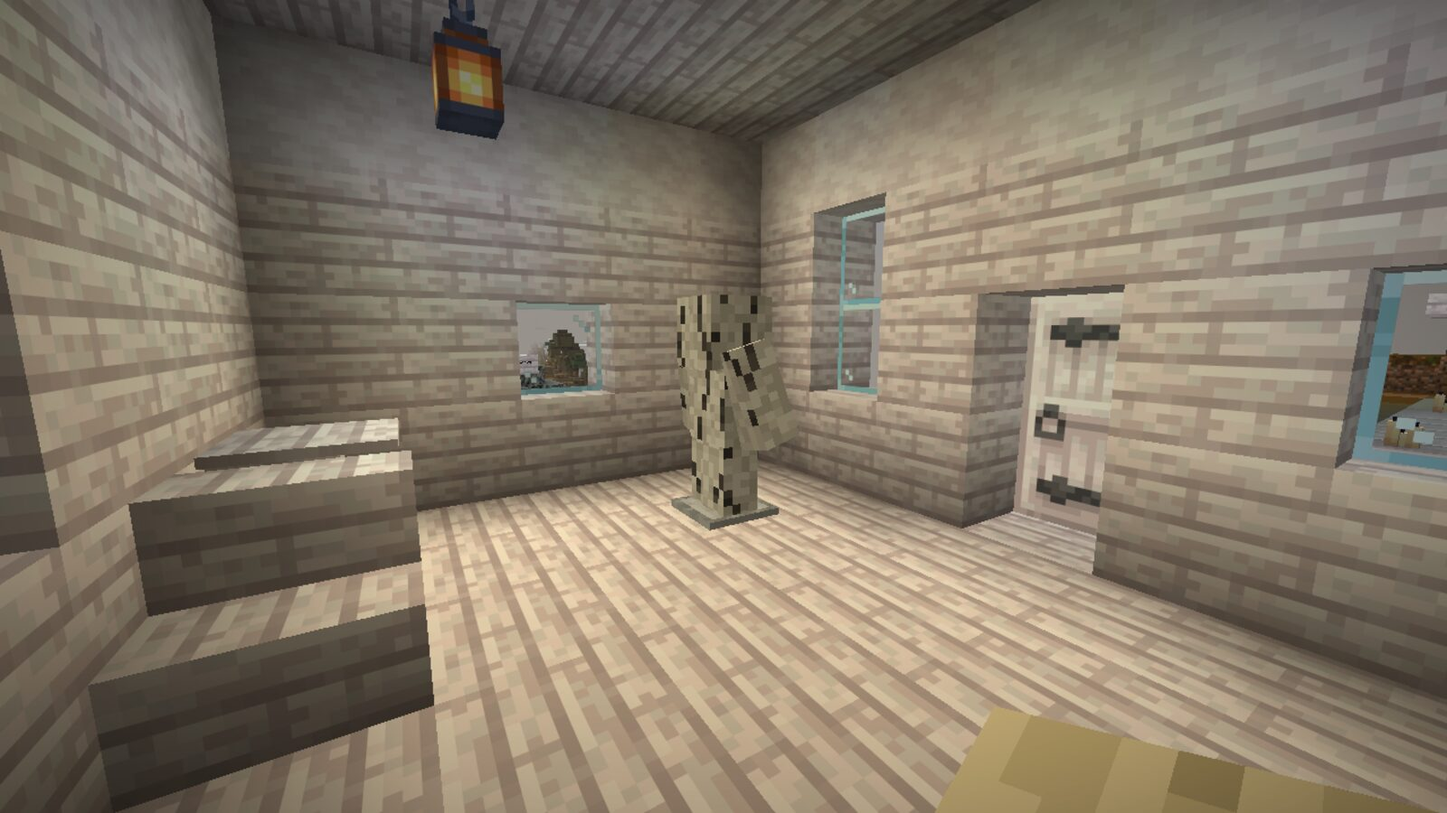
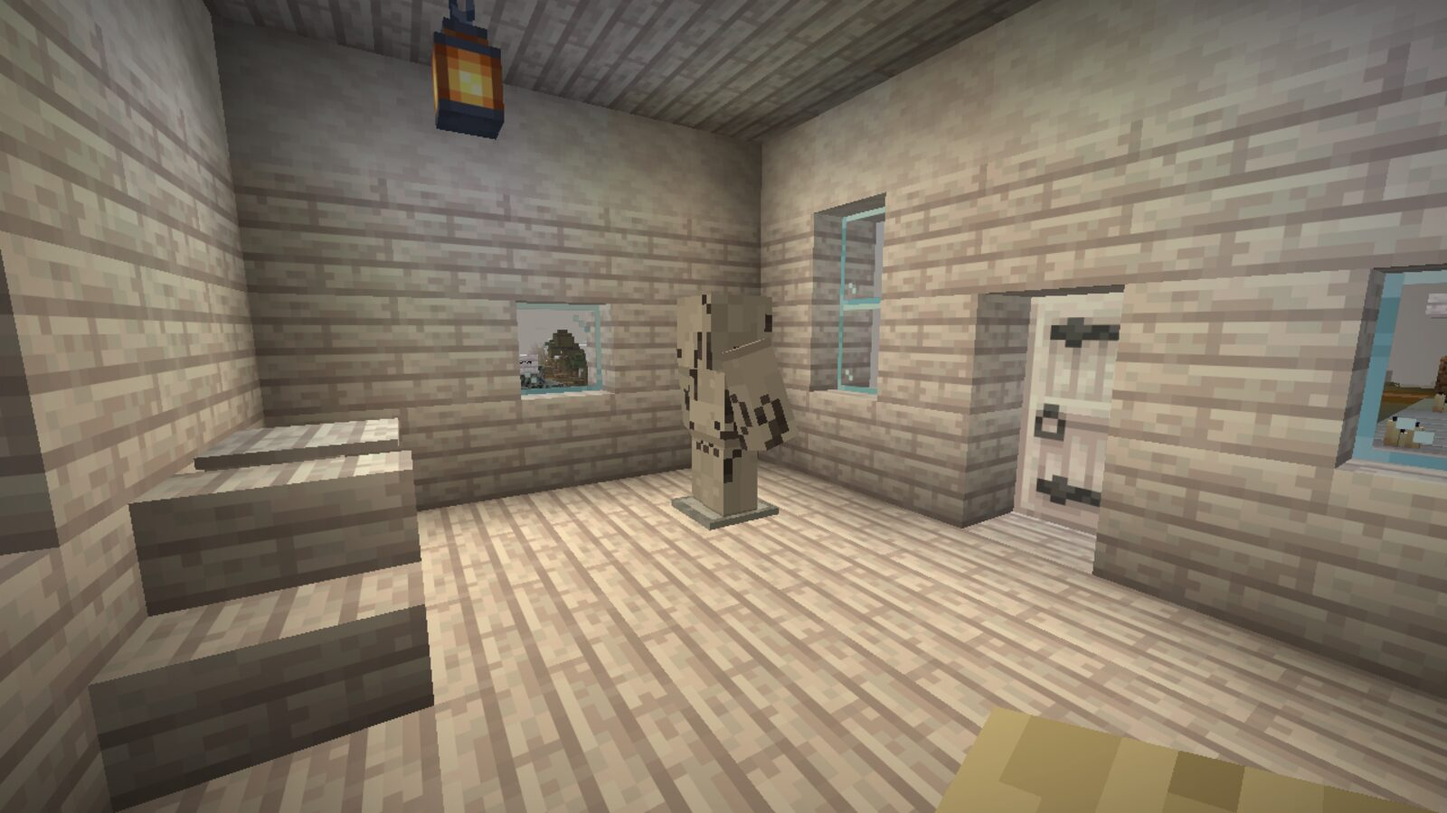
T-025 доработка: кадры (склон, дупло, значки брони, строка над хотбаром), прожилки брони без пятен, тест двери, раздел «Доработка» в отчёте
Зона огня ворожея пересчитана под новую коробку garden_glass (крона великого дуба).

Changed region(s): [[0.4688, 0.3422, 0.5625, 0.6222], [0.9375, 0.4356, 1.0, 0.4978]]

diff --git a/tools/build/garden_shots.py b/tools/build/garden_shots.py
@@ -2,12 +2,12 @@
 """T-025 frames of the Garden of Silence (server + client Cam as the camera, Cam2 as the model in the Creaking armour) -> docs/reports/T-025/*.jpg
 Usage: python3 tools/build/garden_shots.py [garden orangery hearts faces sensor slope house armour asleep hud book]   (default: all, in this order)
   garden    the garden from the path at the house, by day and by night; the main alley to the orangery
-  orangery  the orangery from outside (the great oak over the roof), from the path, inside (the pedestal) and up to the vault
+  orangery  the orangery from outside (the great oak over the roof), from the path, inside (the pedestal), up to the vault, the hollow
   hearts    a living heart by day and by night (awake, 4 blocks)
   faces     a carved face by day from 4 and 8 (outward, eyes shut), by night from 8 (turned, eyes open), a trunk side from the alley
   sensor    a sensor with its bones and sign
   house     the gardener's house from outside (the armour in the window) and the stand inside
-  armour    Cam2 in the full Creaking armour, front and back
+  armour    Cam2 in the full Creaking armour, front and back; the icons in the hotbar (enlarged)
   slope     the slope from the orangery up to the house (pale moss on the open sides)
   asleep    one point of the alley at night: the garden awake and asleep (eyeblossoms, faces; put back to awake afterwards)
   hud       the action bar: "hearts left" and "the garden fell asleep" (Cam in survival with the HUD)
@@ -30,15 +30,19 @@ def run(shots, time_="noon", tag=""):
     spec = os.path.join(TMP, f"shots{tag}.json"); json.dump({"time": time_, "weather": "clear", "shots": shots}, open(spec, "w"))
     subprocess.run([sys.executable, os.path.join(ROOT, "tools/screenshot.py"), spec, "--out", TMP, "--double"], check=True)
     for s in shots: jpg(s["name"])
-def jpg(name):
-    subprocess.run(["convert", os.path.join(TMP, name + ".png"), "-resize", "1600x", "-quality", "82", os.path.join(OUT, name + ".jpg")], check=True)
-def direct(name, hud=True, keep=False):
-    """a frame of what Cam sees now (survival: the hotbar, an open book), through the agent directly"""
-    tc.act("Cam", "%s %d%s" % (name, 1 if hud else 0, " keep" if keep else ""))
+def jpg(name, crop=None):
+    pre = []
+    if crop:      # (x, y, w, h) as fractions of the frame (the client window size may differ)
+        W, H = (int(v) for v in subprocess.run(["identify", "-format", "%w %h", os.path.join(TMP, name + ".png")], capture_output=True, text=True).stdout.split())
+        pre = ["-crop", "%dx%d+%d+%d" % (crop[2] * W, crop[3] * H, crop[0] * W, crop[1] * H), "+repage", "-filter", "point"]
+    subprocess.run(["convert", os.path.join(TMP, name + ".png")] + pre + ["-resize", "1600x", "-quality", "82", os.path.join(OUT, name + ".jpg")], check=True)
+def direct(name, hud=True, keep=False, clean=True, crop=None):
+    """a frame of what Cam sees now (survival: the hotbar, an open book), through the agent directly; clean = without the chat lines"""
+    tc.act("Cam", "%s %d%s%s" % (name, 1 if hud else 0, " keep" if keep else "", " clean" if clean else ""))
     for _ in range(100):
         if os.path.exists(os.path.join(ROOT, "server/client/screenshots", name + ".png")): break
         time.sleep(0.2)
-    time.sleep(0.5); import shutil; shutil.copy(os.path.join(ROOT, "server/client/screenshots", name + ".png"), os.path.join(TMP, name + ".png")); jpg(name)
+    time.sleep(0.5); import shutil; shutil.copy(os.path.join(ROOT, "server/client/screenshots", name + ".png"), os.path.join(TMP, name + ".png")); jpg(name, crop)
 def prep():
     R("gamerule advance_time false"); R("gamerule locator_bar false"); R("difficulty peaceful"); R("gamemode spectator Cam2"); R("tp Cam2 330 200 -350")
 def heart_eye(h, d=5.0, up=0.6):
@@ -79,6 +83,8 @@ def orangery():
     mid = (M["orangery"][0] + 8.5, FY + 1.62, OCZ + 4.0)
     run([shot_eye("g_orangery_up", mid, (OCX - 2, FY + 18, OCZ - 1)),
          shot_eye("g_orangery_vault", (M["orangery"][0] + 2.5, FY + 4.0, OCZ), (M["orangery"][2], FY + 15, OCZ))], "noon", "_ou")
+    tx = M["trunk"][0]       # the hollow: 2x2 in the west face of the trunk, 4..5 over the floor
+    run([shot_eye("g_tree_hollow", (tx - 4.0, FY + 5.2, -318.5), (tx, FY + 4.9, -321.0), 6)], "noon", "_th")
     P = M["path"]; i = min(range(len(P)), key=lambda k: abs(math.hypot(P[k][0] - OCX, P[k][1] - OCZ) - 45))
     run([shot_eye("g_tree_path", (P[i][0] + 0.5, P[i][2] + 1.62, P[i][1] + 0.5), (OCX, FY + 26, OCZ))], "noon", "_tp")
     run([shot_eye("g_orangery_in_night", (M["orangery"][0] + 4.5, FY + 3.2, OCZ + 3), (M["pedestal"][0] + 0.5, FY + 1, M["pedestal"][2] + 0.5))], "midnight", "_orn")
@@ -110,7 +116,9 @@ def sensor():
     run([shot_eye("g_sensor", e, (t[0] + (sx - s["x"]) * 0.4, t[1] + 0.6, t[2] + (sz - s["z"]) * 0.4), 6)], "noon", "_s")
 def slope():
     prep(); R(f"tp Cam {OCX} 150 {OCZ}"); time.sleep(12)
-    e = (M["orangery"][0] - 6.5, FY + 4.5, OCZ - 8); t = (M["house"][0] + 4, M["house_floor"] - 6, M["house"][3])
+    P = M["path"]; i = min(range(len(P)), key=lambda k: abs(math.hypot(P[k][0] - OCX, P[k][1] - OCZ) - 28))    # the path at the orangery's west side
+    j = min(range(len(P)), key=lambda k: abs(math.hypot(P[k][0] - OCX, P[k][1] - OCZ) - 90))                  # up the slope, at the house
+    e = (P[i][0] + 0.5, P[i][2] + 1.62 + 2.0, P[i][1] + 0.5); t = (P[j][0] + 0.5, P[j][2] + 1.0, P[j][1] + 0.5)
     run([shot_eye("g_slope", e, t, 8)], "noon", "_sl")
 def house():
     prep(); R("tp Cam 242 140 -262"); time.sleep(12)
@@ -128,11 +136,11 @@ def armour():
     R(f"tp Cam2 {x} {y} {z}"); R("rotate Cam2 180 0"); time.sleep(2)
     run([shot_eye("g_armour_back", (x, y + 1.4, z + 3.2), (x, y + 1.0, z), 4)], "noon", "_ab")
     # the icons in the hotbar of Cam (survival) looking at Cam2
-    R("gamemode survival Cam"); R("clear Cam"); R(f"tp Cam {x} {y} {z + 3.2} 180 10")
+    R("recipe give Cam *"); R("gamemode survival Cam"); R("clear Cam"); R(f"tp Cam {x} {y} {z + 3.2} 180 10")
     for k, pc in enumerate(("helmet", "chestplate", "leggings", "boots")): R(f"loot replace entity Cam hotbar.{k} loot last_ember:item/creaking_{pc}")
     R("item replace entity Cam hotbar.4 with minecraft:pale_oak_log"); R("item replace entity Cam hotbar.5 with minecraft:stripped_pale_oak_log")
-    R("item replace entity Cam hotbar.6 with minecraft:leather_chestplate"); time.sleep(3)
-    direct("g_armour_icons"); R("clear Cam"); R("gamemode spectator Cam")
+    R("item replace entity Cam hotbar.6 with minecraft:leather_chestplate"); time.sleep(8)    # the recipe toast goes away
+    direct("g_armour_icons", crop=(0.35, 0.925, 0.30, 0.075)); R("clear Cam"); R("gamemode spectator Cam")      # the hotbar only, enlarged
     R("clear Cam2"); R("gamemode spectator Cam2")
 def alley_eye():
     P = M["path"]; i = min(range(len(P)), key=lambda k: abs(math.hypot(P[k][0] - OCX, P[k][1] - OCZ) - 40))
@@ -158,11 +166,11 @@ def hud():
     prep(); R("function last_ember:garden/reset"); R("time set noon")
     h = M["hearts"][0]; e = heart_eye(h, 4.0, 0.0)
     R("gamemode survival Cam"); R("effect give Cam minecraft:resistance infinite 4 true"); R(f"tp Cam {e[0]} {e[1] - 1.62 + 20} {e[2]}"); time.sleep(10)
-    R(f"spreadplayers {e[0]} {e[2]} 0 1 false Cam"); R(f"execute as Cam at @s anchored eyes run tp @s ~ ~ ~ facing {h['x'] + 0.5} {h['y'] + 0.5} {h['z'] + 0.5}"); time.sleep(3)
+    R(f"tp Cam {e[0]} {h['y']} {e[2]}"); R(f"execute as Cam at @s anchored eyes run tp @s ~ ~ ~ facing {h['x'] + 0.5} {h['y'] + 0.5} {h['z'] + 0.5}"); time.sleep(3)
     R(f"setblock {h['x']} {h['y']} {h['z']} minecraft:air destroy"); time.sleep(1.3)
-    direct("g_hud_hearts_left")
+    direct("g_hud_hearts_left"); time.sleep(12)        # the chat line "Saved screenshot" of this frame fades (10 s) before the next one
     for q in M["hearts"][1:]: R(f"forceload add {q['x']} {q['z']}"); R(f"setblock {q['x']} {q['y']} {q['z']} minecraft:air")
-    time.sleep(1.6); direct("g_hud_asleep")
+    time.sleep(2.0); direct("g_hud_asleep")
     for q in M["hearts"][1:]: R(f"forceload remove {q['x']} {q['z']}")
     R("function last_ember:garden/reset"); R("gamemode spectator Cam")
 def book():

diff --git a/tools/make_creak_textures.py b/tools/make_creak_textures.py
@@ -24,20 +24,28 @@ def base(x, y, s=0):
     n = hsh(x, y, s + 1); g = hsh(x // 2, y // 3, s + 2)        # soft grain: patches 2x3 of one shade, a little speckle
     return BASE[0 if g < 0.5 else 1 if g < 0.8 else 2] if n > 0.15 else BASE[int(n * 20) % 3]
 def veins(px, x1, y1, x2, y2, s):
-    """dark vertical veins 3..8 long that wander by one pixel and fork; about one start per 26 pixels of the region, no spots"""
-    w, h = x2 - x1, y2 - y1; n = max(1, (w * h) // 26)
+    """dark vertical veins 3..8 long, one pixel wide, that wander by one pixel and fork away; about one start per 40 pixels of the region.
+    No two veins touch side by side (that read as dark spots on the worn armour): a vein stops before it would sit next to another one."""
+    w, h = x2 - x1, y2 - y1; n = max(1, (w * h) // 40); occ = set()
+    def free(x, y, own):
+        return all((x + dx, y + dy) not in occ or (x + dx, y + dy) in own for dx in (-1, 0, 1) for dy in (-1, 0, 1))
     for k in range(n):
         x = x1 + int(hsh(k, 1, s) * w); y = y1 + int(hsh(k, 2, s) * h); L = 3 + int(hsh(k, 3, s) * 6)
-        stack = [(x, y, L, 0)]
+        stack = [(x, y, L, 0, 0)]
         while stack:
-            x, y, L, depth = stack.pop()
+            x, y, L, depth, side = stack.pop(); own = set()
             for i in range(L):
-                if not (x1 <= x < x2 and y1 <= y < y2): break
-                px[y][x] = VEIN[int(hsh(x, y, s + 9) * 3)] + (255,)
-                if depth == 0 and i == L // 2 and hsh(k, 4, s) < 0.6:
-                    stack.append((x + (1 if hsh(k, 5, s) < 0.5 else -1), y + 1, 2 + int(hsh(k, 6, s) * 3), 1))
+                if not (x1 <= x < x2 and y1 <= y < y2) or not free(x, y, own | {(x, y - 1), (x - 1, y - 1), (x + 1, y - 1)}): break
+                own.add((x, y)); px[y][x] = VEIN[int(hsh(x, y, s + 9) * 3)] + (255,)
+                if depth == 0 and i == L // 2 and hsh(k, 4, s) < 0.5:
+                    sd = 1 if hsh(k, 5, s) < 0.5 else -1          # the fork leaves sideways: 2 pixels out, then down
+                    stack.append((x + 2 * sd, y + 2, 2 + int(hsh(k, 6, s) * 3), 1, sd))
                 y += 1
-                if hsh(x, y, s + 11) < 0.3: x += 1 if hsh(x, y, s + 12) < 0.5 else -1
+                if depth == 0 and hsh(x, y, s + 11) < 0.3: x += 1 if hsh(x, y, s + 12) < 0.5 else -1
+            if len(own) < (3 if depth == 0 else 2):             # cut short by a neighbour: no stray dots
+                for (qx, qy) in own: px[qy][qx] = base(qx, qy) + (255,)
+                continue
+            occ |= own
 # ---- worn layers (64x32 humanoid layout): head 0..32 x 0..16, body 16..40 x 16..32, arms 40..56 x 16..32, legs 0..16 x 16..32
 def layer(regions, rims, eyes=False):
     px = [[(0, 0, 0, 0)] * 64 for _ in range(32)]

diff --git a/tools/test_garden.py b/tools/test_garden.py
@@ -340,7 +340,13 @@ def t_door():
             f"closest {zmin:.2f} from the door block, end z {p and p[2]}")
         print(f"        (the door seen open by the server in {seen_open} polls of ~{int(3.4 / 0.12)})")
         chk(f"run {run}: ... the door is shut afterwards", blk(dx, dy, dz, "minecraft:pale_oak_door[open=false]"))
-    unstage()
+    # control: the same clicks reach the door (asleep, one click opens it)
+    R("function last_ember:garden/sleep_now"); time.sleep(1.2)
+    R(f"tp Cam {dx + 0.5} {dy} {dz + 2.0} 180 0"); look_at("Cam", dx + 0.5, dy + 1.0, dz + 0.5); time.sleep(0.6)
+    tc.act("Cam", "!use"); time.sleep(1.5)
+    chk("control: asleep, one right click from the same place opens the door", blk(dx, dy, dz, "minecraft:pale_oak_door[open=true]"))
+    R(f"setblock {dx} {dy} {dz} minecraft:pale_oak_door[facing=north,half=lower,hinge=left,open=false]"); R(f"setblock {dx} {dy+1} {dz} minecraft:pale_oak_door[facing=north,half=upper,hinge=left,open=false]")
+    R("function last_ember:garden/reset"); unstage()
 
 def attr(p, a): return tc.num(R(f"attribute {p} minecraft:{a} get"), r"is (-?[\d.]+)")
 def t_armor():
@@ -391,8 +397,9 @@ def t_armor():
     R("clear Cam"); R("clear Cam2"); R("function last_ember:garden/reset"); unstage()
 
 def arena():
-    R("fill 1700 199 1700 1740 199 1740 minecraft:stone"); R("fill 1700 200 1700 1740 206 1740 minecraft:air")
-    R("forceload add 1700 1700 1740 1740")
+    R("forceload add 1700 1700 1740 1740")               # loaded first: on a fresh world the fill would hit unloaded chunks
+    wait(lambda: passed("execute if loaded 1700 200 1700") and passed("execute if loaded 1740 200 1740"), 40); time.sleep(1)
+    R("fill 1700 199 1700 1740 199 1740 minecraft:stone"); R("fill 1700 200 1700 1740 210 1740 minecraft:air")
 def wear(p):
     R(f"clear {p}")
     for sl, pc in (("head", "helmet"), ("chest", "chestplate"), ("legs", "leggings"), ("feet", "boots")):

diff --git a/tools/shotagent/ShotAgent.java b/tools/shotagent/ShotAgent.java
@@ -72,14 +72,16 @@ public class ShotAgent {
                             continue;
                         }
                         boolean hud = p.length > 1 && p[1].equals("1");
-                        boolean keep = p.length > 2 && p[2].equals("keep");     // "<name> 1 keep": the open screen (a book, the inventory) stays in the frame
+                        java.util.Set<String> fl = new java.util.HashSet<>(java.util.Arrays.asList(p).subList(Math.min(2, p.length), p.length));
+                        boolean keep = fl.contains("keep");     // "<name> 1 keep": the open screen (a book, the inventory) stays in the frame
+                        boolean clean = fl.contains("clean");   // "<name> 1 clean": the chat is cleared before the frame (a "Saved screenshot" line of the frame before may still come later: wait 10 s)
                         Object lock = new Object();
                         boolean[] ok = {false};
                         Path shots = Paths.get(mc.gameDirectory.getPath(), "screenshots");
                         Files.createDirectories(shots);
                         mc.execute(() -> {
                             if (mc.gui.screen() != null && !keep) mc.gui.setScreen(null);  // close pause menu etc.
-                            if (!hud) { mc.options.chatVisibility().set(ChatVisiblity.HIDDEN); mc.gui.hud.getChat().clearMessages(false); }  // no chat / "Saved screenshot"
+                            if (!hud || clean) { mc.options.chatVisibility().set(ChatVisiblity.HIDDEN); mc.gui.hud.getChat().clearMessages(false); }  // no chat / "Saved screenshot"
                             boolean wasHidden = mc.gui.hud.isHidden();
                             if (wasHidden == hud) mc.gui.hud.toggle();
                             // capture on a later frame so the HUD state has been rendered

diff --git a/docs/reports/T-025-report.md b/docs/reports/T-025-report.md
@@ -155,3 +155,70 @@
 1. Текст «Записок садовника» — ждём от Штаба, сейчас одна страница «…».
 2. Текстуры брони — заглушки скрипта. Нужен ли арт от Архитектора?
 3. Заметил вне задачи: таблички в Приюте и на доске заказов не вощёные. Там зоны с приключением, редактировать их нельзя, но если зону когда-нибудь снимут — стоит вощить. Сделать в отдельной задаче?
+
+## Доработка (по приёмке `docs/tasks/T-025-review.md`)
+
+ДЛЯ ШТАБА. PR #83 влит до того, как правки были готовы, поэтому доработка идёт отдельным PR в `main`. Всё проверено на мире, собранном с нуля этой веткой (`rebuild.sh --no-client`), клиенты Cam и Cam2.
+
+### Что сделано по пунктам
+1. **Свод оранжереи.** Рёбра — `stripped_pale_oak_log[axis=z]`, на крутых участках (ребро добирается до соседа больше чем на 1 блок) — `axis=y`. Щелей по диагонали нет: каждая клетка, которую добирает `ys`, тоже ребро. Кадры `g_orangery_in`, `g_orangery_up` (с середины зала вверх), `g_orangery_vault` (вдоль зала): рёбра читаются сплошными ступенчатыми дугами.
+2. **Великий дуб.** Ствол 4×4 высотой 34 от пола (до y 125). Главная крона над крышей шириной 31 (`rx` 15,5) с 9 верхними ветвями и кольцом из 7 пятен, висячий мох; верх кроны y 133, на 8+ выше леса вокруг (`g_orangery_out`, `g_tree_path`). Три толстые ветви `BIG_BRANCHES` (2×2 первые 7 шагов у ствола, дальше 1×1) идут под сводом и пробивают его в трёх местах, стекло и решётки вокруг ветви убраны. Дупло 2×2 глубиной 1 в западной грани на высоте 4–5 от пола (`g_tree_hollow`: тёмная ниша с освещёнными краями; под кроной ствол сам по себе тёмный). Зона `garden_glass` = оранжерея ∪ рамка кроны до её верха +2: `318 87 −340 … 357 133 −304`.
+3. **Лица.** Все клетки ствола стоймя (`axis=y`), на боках ствола торцов с кольцами больше нет (`g_face_side`). Днём: брови — перевёрнутые ступени `pale_oak_stairs` перед снятым дубом, глаза закрыты веком (верхняя плита `pale_oak_slab` перед тёмной клеткой), нос — светлая перемычка и кнопка, рот — тёмная клетка за открытым люком. Ночью глаза открыты: веко снимается, остаются тёмные провалы. Кадры `g_face_day4`, `g_face_day8` (днём с 4 и 8), `g_face_night` (ночью с 8), `g_face_side` (с аллеи сбоку).
+4. **Склоны.** Открытые бока уступов (соседняя клетка ниже) — `pale_moss_block` сверху и на глубину перепада, камень на боках больше не торчит (`g_slope`: от оранжереи вверх к дому).
+5. **Текстура брони** (`tools/make_creak_textures.py`). Основа — тона снятого бледного дуба в 3 оттенка, кромки пластин на 1 тон темнее (плечи, пояс, низ поножей и ботинок). Прожилки — тёмные тона коры бледного дуба, вертикальные, 3–8 px, с отходящими ветками, одна на ~40 px. Две прожилки не касаются друг друга, слишком короткие убираются: пятен нет (первый вариант давал на спине тёмные пятна 2×2, переделано). На шлеме прорези 3×1 с тускло-оранжевым пикселем. Значки в тех же тонах, с тёмной обводкой. Кадры `g_armour_front`, `g_armour_back`, `g_armour_icons` (хотбар, увеличен; рядом для сравнения бревно, снятое бревно и кожаный нагрудник).
+6. **Повторяемость сборки с нуля** — ниже отдельно.
+7. **Кадры** — ниже списком.
+- **Дверь:** в `test_garden.py door` игрок бежит в дверь (вперёд зажато) и жмёт ПКМ каждые 2 тика 3 с (новое действие агента `!use_rapid 3000 100`). Два прогона: внутрь не попал (z не дальше порога), дверь закрыта. Контроль: после засыпания одно ПКМ открывает дверь.
+- **Записки садовника:** 6 страниц из приёмки без сокращений, автор «садовник». Каждая страница помещается в окно книги (`g_book_p1` … `g_book_p6`, кадр с открытой книгой на кафедре).
+
+### Повторяемость сборки с нуля
+- **Причина — датапак, а не ваниль.** `rebuild.sh` грузит чанки (`pregen`) на запущенном сервере с датапаком из git. Датапак в это время строил костры (и ворота, торговцев…) по координатам **прошлой** сборки, а скан «естественной» земли `nat.bin` видел эти площадки. Следующая сборка ставила площадки по новому скану, и так по кругу: костёр 8 у моста прыгал между y 163 и 174 через сборку, от него тянулись тропы, подходы `r1_plots.txt` и точки сада (глазоцвет у реки).
+- **Исправлено:**
+  - `rebuild.sh` генерирует чанки при `tick freeze`: функции, текущая вода, замерзание и осыпи стоят, а чанки грузятся. `tick unfreeze` — при последнем старте.
+  - `terrain.sh scan` считает текущую воду (level ≠ 0) воздухом, а лёд — водой: от порядка таяния и растекания скан больше не зависит.
+  - Тропы `r1.py` больше не обходят ванильные стволы: «цена ствола» в A* убрана, стволы на стыках чанков — основная ванильная разница.
+  - Площадка костра поднимается над водой, только если вода занимает ≥ 10% её коробки: одиночный родник у края больше не задирает площадку.
+- **Проверка:** две сборки с нуля подряд (rb5 → rb6). Все тексты и вывод датапака совпали, `git status` чистый, кроме `docs/reports/T-022/r1_plan.png` (15 пикселей).
+- **Что ещё отличается и почему это безопасно.** Ванилла сама по себе даёт между сборками: деревья на стыках чанков (зависят от порядка генерации), ~63 столбца земли (землю под стволом кладёт дерево) и 20–27 столбцов воды. Генераторы мест от них больше не зависят. Видно это только в картинке плана R1, а в файлах датапака, точках, тропах и подходах ничего не меняется.
+- **Правило в CLAUDE.md:** после сборки боевого мира закоммитить вывод генераторов этой сборки (`git status` после `rebuild.sh`). Датапак из git, не совпадающий с миром, не ставить.
+- **Что поменялось в выводе по сравнению с PR #83** (из-за правок выше, а не случайно):
+  - сердце 5 у реки теперь (349, 85, −347);
+  - тропы R1 местами сдвинулись на 1–2 блока (убрана цена ствола);
+  - строки `approach` в `r1_plots.txt`, планы.
+  - Глазоцветов 192, как в отчёте; у Штаба было 191 — это и был плавающий столбец у реки.
+
+### Как проверено (доработка)
+- **Тесты** `python3 tools/test_garden.py` на мире rb6, все разделы с новым `door`. Первый прогон: 118 прошли, 6 упали. Причина в самом тесте: площадка-арена заливалась `fill` до загрузки чанков. Арена теперь сначала `forceload` и ждёт загрузки. Повтор упавших разделов (armor, still, perf): 33 прошли, 0 упали. Silence: 16 из 16. Restart: 5 из 5. Door: 2 прогона внутрь не попали, контроль открыл дверь.
+- **Нагрузка «Замирания»:** 0,128 мс на запуск → 0,077 мс на тик на трёх носителей (как было).
+- **Бот** на мире rb6, все маршруты без застреваний и падений:
+
+  | Маршрут | Прыжков |
+  | --- | --- |
+  | `g_in` | 0 |
+  | `g_out` | 0 |
+  | `g_heart_1` | 1 |
+  | `g_heart_2` | 0 |
+  | `g_heart_3` | 18 |
+  | `g_heart_4` | 7 |
+  | `g_heart_5` | 1 |
+  | `g_heart_6` | 0 |
+- **Генераторы:** `tools/check_gen.sh` чистый.
+
+### Кадры (`docs/reports/T-025/`, `python3 tools/build/garden_shots.py`)
+- **Ночь на аллее, одна точка:** `g_alley_night_awake` (глазоцветы открыты, лица к оранжерее) и `g_alley_night_asleep` (закрыты, лица наружу). Старый `g_asleep_night` (совпадал с тропой у дома) удалён.
+- **Живое сердце:** `g_heart_day`, `g_heart_night` — живой лик с 4 блоков, ночью сердце проснулось.
+- **Строка над хотбаром:** `g_hud_hearts_left` («Сердец осталось: 5»), `g_hud_asleep` («Сад уснул.»).
+- **Свод:** `g_orangery_in`, `g_orangery_up`, `g_orangery_vault`.
+- **Дуб:** `g_orangery_out` (снаружи), `g_tree_path` (с тропы), `g_orangery_up` (изнутри вверх), `g_tree_hollow` (дупло).
+- **Лица:** `g_face_day4`, `g_face_day8`, `g_face_night`, `g_face_side`. Старый `g_face_day` удалён.
+- **Сенсор и склон:** `g_sensor`, `g_slope`.
+- **Броня:** `g_armour_front`, `g_armour_back`, `g_armour_icons`.
+- **Записки:** `g_book_p1` … `g_book_p6`.
+- Остальные кадры пересняты на новом мире.
+
+### Инструменты (не карта)
+- ShotAgent:
+  - `!use_rapid <мс> [шаг_мс]` — ПКМ раз в шаг;
+  - флаги строки кадра `keep` (кадр с открытым окном, книга) и `clean` (чат очищается перед кадром с HUD; строка «Saved screenshot» прошлого кадра приходит позже, поэтому между кадрами с HUD пауза 12 с — строки чата гаснут за 10 с).
+- `garden_shots.py`: новые разделы `slope`, `hud`, `book`, кадры прямо с клиента (`direct`, с обрезкой для хотбара).
+- `Terrain.java`: в новой секции биомы копируются из ближайшей нижней. `BiomePaint.java` пропускает секции без палитры биомов (только свет) — на них падала первая пересборка.

diff --git a/CLAUDE.md b/CLAUDE.md
@@ -287,7 +287,7 @@ Dark fantasy приключенческая карта для **Minecraft Java 2
 - Тишина: активный сенсор (`sculk_sensor_phase=active`) → `gen/sn<k>`: 2 скрипуна (`garden/wake` → `wake_try`, 16 попыток на каждого) 7..13 за спиной ближайшего игрока (> 120°) и 10..16 от сенсора, на твёрдой земле; `le.garden_cr`, `Invulnerable`, `PersistenceRequired`; рассыпаются через 60 с (`le.gdt`), когда все ушли дальше 32, при засыпании; не больше 6 в саду. **Ванилла: наступивший на сенсор будит его и крадучись** (`SculkSensorBlock.stepOn`) — присевший на клетке над сенсором сад не будит (пропуск 2 с), шаги крадущегося рядом ванилла и так не слышит.
 - Дверь дома заперта, пока сад не спит: достижение `garden/door` (`default_block_use`, **26.3: `location` — один предикат `{type:location_check,…}`, не список**) + сверка раз в секунду закрывают её снова. Ключ «Слеза Скрипуна» — `item_display`+`interaction` `le.gdkey` на постаменте, `garden/key_take` (T-013, `got:1b`). Броня — стойка `le.gdstand` (**`DisabledSlots` ставить после брони: в отключённый слот и команда не кладёт**), `interaction` `le.gdarm`, после засыпания комплект раз на игрока (`le.creak_got`).
 - Скрипучая броня (`gen_loot.py` → `loot_table/item/creaking_<деталь>`, `creaking_armor`; текстуры-заглушки `python3 tools/make_creak_textures.py`): кожаные детали с `equippable` `last_ember:creaking`, броня 2/6/5/2, прочность 165/240/225/195, отбрасывание +0,025, чары 12, ремонт `#minecraft:pale_oak_logs`, `custom_data {le_keep,le_creak}`. Замирание (`creak/wear`, весь комплект): ближайший монстр в конусе 20° ≤ 8 (эльф 25°, 12), луч по `#last_ember:gaze_pass` — замедление III + слабость I на 1 с; не боссы/великаны/NPC/скрипуны.
-- Админ: `garden/status`, `garden/reset` (сердца, ключ, откаты, броня снова), `garden/sleep_now`, `garden/gen/blooms_open|blooms_count`. Тесты: `python3 tools/test_garden.py [build hearts faces door silence key armor still zones perf restart]` (Cam, Cam2; мир после `rebuild.sh`), бот `python3 tools/build/garden_routes.py` → `tools/build/garden_walk.sh` (`g_in`, `g_out` без прыжков, `g_heart_N` с прыжками), кадры `python3 tools/build/garden_shots.py`. ShotAgent: `!use_rapid <мс> [шаг_мс]` (ПКМ раз в шаг, по умолчанию 100 мс), строка кадра `<имя> 1 keep` — кадр с открытым окном (книга), `!attack_on/off` (ЛКМ; ломание блока агент ведёт сам — ванилла копает по зажатой кнопке только при захваченной мыши), `!menu_qmove N` (shift-клик слота открытого окна: наковальня); после пересборки агента клиенты перезапустить.
+- Админ: `garden/status`, `garden/reset` (сердца, ключ, откаты, броня снова), `garden/sleep_now`, `garden/gen/blooms_open|blooms_count`. Тесты: `python3 tools/test_garden.py [build hearts faces door silence key armor still zones perf restart]` (Cam, Cam2; мир после `rebuild.sh`), бот `python3 tools/build/garden_routes.py` → `tools/build/garden_walk.sh` (`g_in`, `g_out` без прыжков, `g_heart_N` с прыжками), кадры `python3 tools/build/garden_shots.py [garden orangery hearts faces sensor slope house armour asleep hud book]`. ShotAgent: `!use_rapid <мс> [шаг_мс]` (ПКМ раз в шаг, по умолчанию 100 мс), строка кадра `<имя> 1 keep` — кадр с открытым окном (книга), `<имя> 1 clean` — чат очищается перед кадром (строка «Saved screenshot» прошлого кадра приходит позже: между кадрами с HUD ждать 10+ с), `!attack_on/off` (ЛКМ; ломание блока агент ведёт сам — ванилла копает по зажатой кнопке только при захваченной мыши), `!menu_qmove N` (shift-клик слота открытого окна: наковальня); после пересборки агента клиенты перезапустить.
 - Великий дуб (доработка): ствол 4×4 на 34 от пола, дупло 2×2 в западной грани (y пол+4…+5), три толстые ветви `BIG_BRANCHES` (2×2 у ствола) под сводом пробивают его в трёх местах (стекло вокруг убирается), крона над крышей шириной 31 с висячим мхом; зона `garden_glass` = оранжерея ∪ рамка кроны до её верха +2 (`crown_box`, `crown_top` в `garden.json`). Рёбра свода — `stripped_pale_oak_log[axis=z]`, на крутых местах `axis=y`. Открытые бока уступов сада (сосед ниже) — `pale_moss_block` сверху и на глубину перепада. Записки садовника — `NOTES` в `r1_garden.py` (6 страниц, автор «садовник»). Текстура брони — `tools/make_creak_textures.py` (тона коры снятого и обычного бледного дуба).
 - **Повторяемость сборки с нуля (доработка T-025):** главная причина расхождений — датапак: пока `pregen` грузил чанки, он строил костры (и ворота, торговцев…) по координатам **прошлой** сборки, и скан «естественной» земли видел их (костёр 8 у моста: y 163 ↔ 174 через сборку). Теперь `rebuild.sh` генерирует чанки при `tick freeze` (функции, текущая вода, замерзание, осыпи стоят; чанки грузятся), `tick unfreeze` — при последнем старте. Ещё: `terrain.sh scan` считает текущую воду (level ≠ 0) воздухом, а лёд — водой; тропы `r1.py` не обходят ванильные стволы. Что осталось разным между двумя сборками — в отчёте T-025. Правило: после сборки боевого мира закоммитить вывод генераторов этой сборки (`git status` после `rebuild.sh`); датапак из git, не совпадающий с миром, не ставить.
 - Тропа у дома начинается полуступенью на кромке площадки костра № 4 (единственные блоки сада на её месте, `RIM_STEP`). Таблички сенсоров вощёные (`is_waxed`): сад не зона, в выживании их иначе редактируют ПКМ. Листва старых деревьев над рекой убирается (столбцы воды: воздух от воды вверх).
